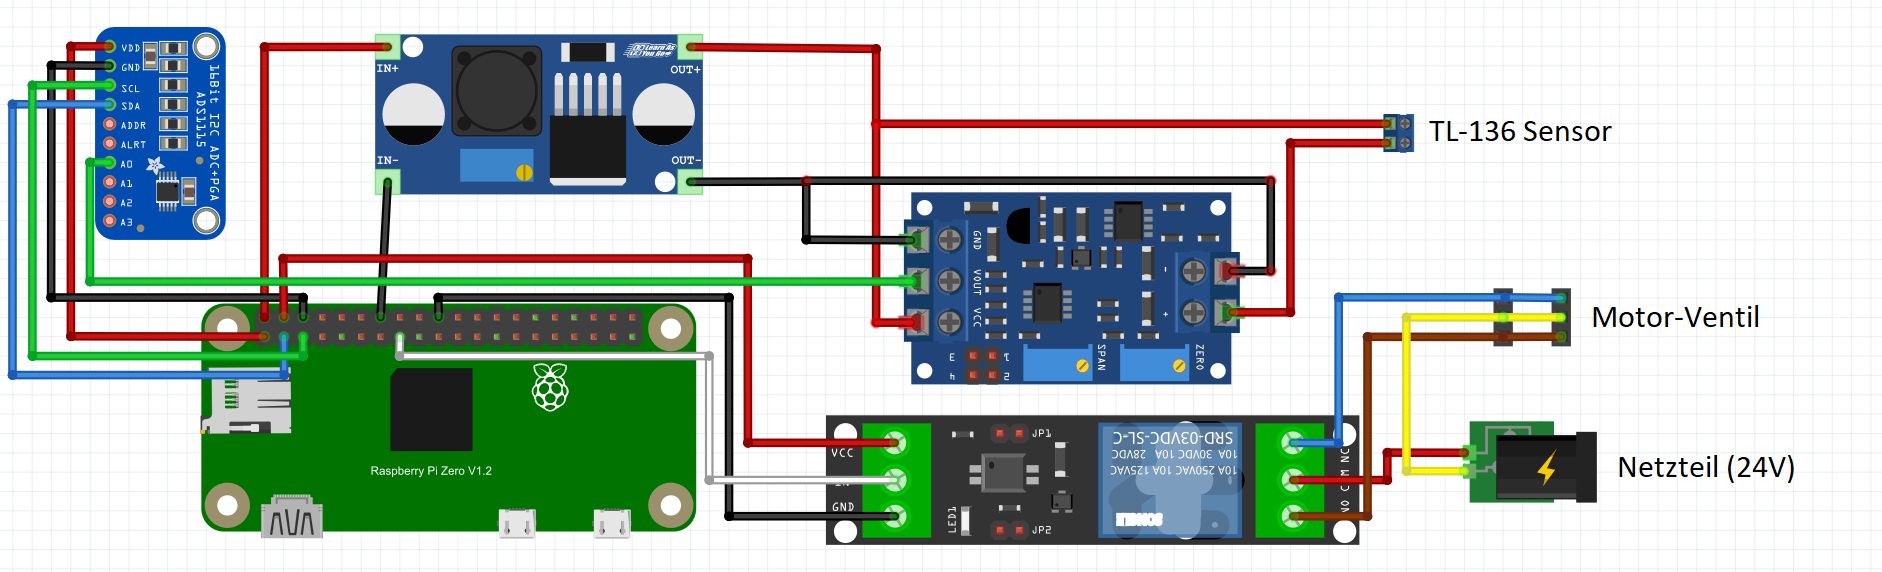
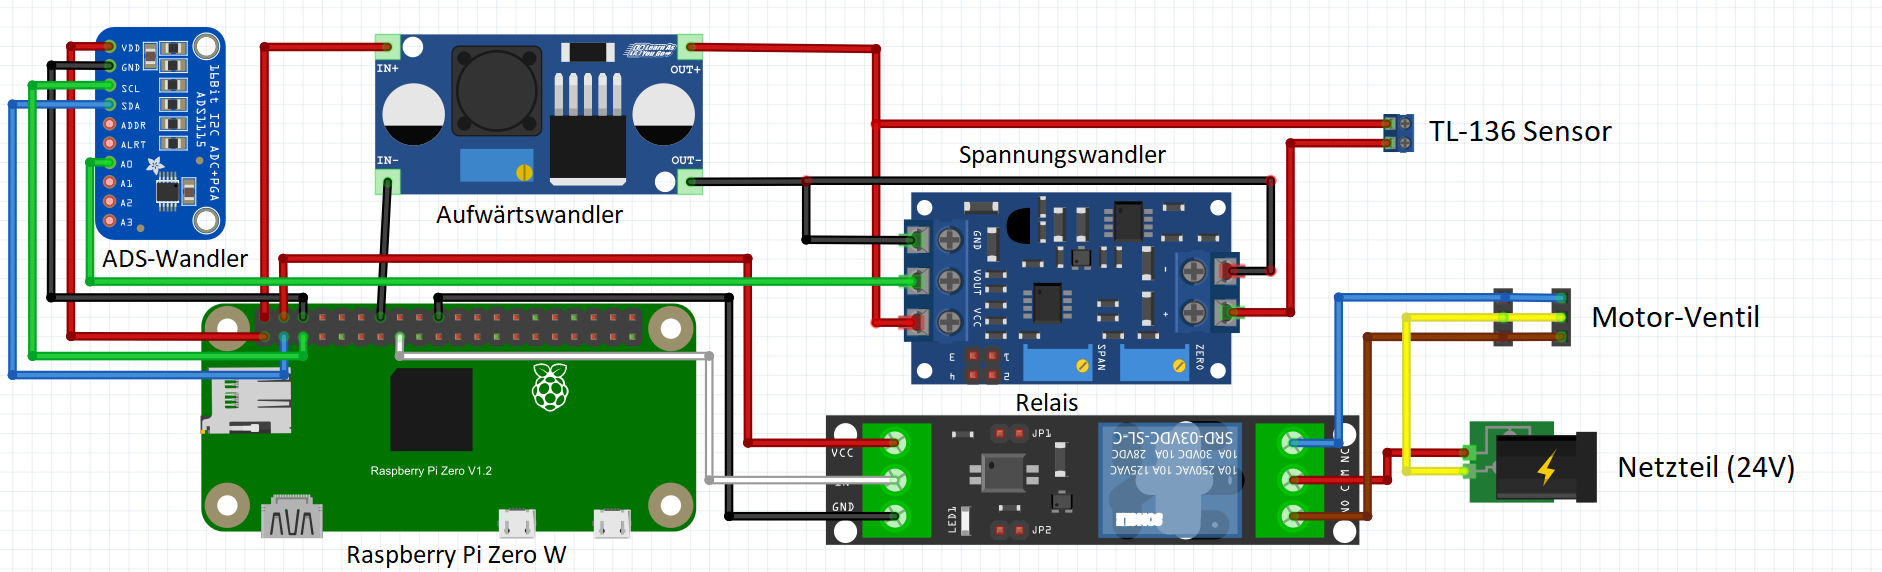
Dokumentation angepasst und Bilder hinzugefügt

diff --git a/README.md b/README.md
@@ -2,10 +2,8 @@
 
 Willkommen in der Dokumentation für das OOWV Smart Watertank Controller Repository. Hier erfährst du alles, was du über den Controller zur Steuerung des intelligenten Wassertanks wissen musst.
 
-
-
 ## Hardware
-### Controller
+#### Controller
 
 Folgende Hardware-Komponenten werden für den Controller benötigt:
 
@@ -16,7 +14,7 @@ https://www.amazon.de/dp/B06XFZC3BX
 https://www.amazon.de/dp/B08GY9NYRM
 
 - 1-Kanal Relais (3V): Für die Schaltung von Geräten.
-https://www.amazon.de/dp/B078Q326KT?th=1
+https://www.amazon.de/dp/B078Q326KT
 
 - 1 x Aufwärtswandler (3V-32V zu 5V-35V): Zur Spannungsanpassung.
 https://www.amazon.de/dp/B00HV59922
@@ -36,7 +34,7 @@ https://www.amazon.de/dp/B07TWLG37N
 
 - Verteilerdose zum verstauen der Hardware-Komponenten
 
-### Wassertank
+#### Wassertank
 
 - 1000L IBC Container
 https://www.rekubik.de/ibc-container/neue-ibc/1000l-ibc-container-rebottled-food-auf-stahlpalette-neuwertig?number=RK50122
@@ -46,59 +44,6 @@ https://www.rekubik.de/ibc-zubehoer/adapter/s60x6-grobgewinde/ibc-adapter-s60x6-
 
 - Motorkugelhahnventil
 https://www.amazon.de/dp/B07V2VX76C
-
-<pre>
-</pre>
-
-### Aufbau der Hardware
-
-Für die Konstruktion des Controllers werden neben den Komponenten noch weiteres Werkzeug und Bauteile benötigt:
-- Lötkolben und Lötzinn
-- Kabel und Lüsterklemmen
-- Aderendhülsen und Crimpzange
-- Multimeter
-
-#### Controller
-
-Zu Beginn empfiehlt es sich die Komponenten lose in der Dose anzuordnen und anschließend zB. mit einer Heißklebe Pistole zu befestigen.
-Alternativ können die Komponenten vorher auch auf einem Perfboard verlötet und dieses anschließend in der Dose befestigt werden.
-Einige Komponenten müssen vorher noch mit der jeweils mitgelieferten Stifleiste verlötet werden, damit Kabel an die jeweiligen Pins angeschlossen werden können.
-Anschließend können die Öffnungskappen der Dose für den Stecker des Netzteils sowie Kabel des Ventils und Wassersensors entfernt und die Kabel bzw. Stecker in den Öffnungen befestigt werden.
-
-Danach können die Kompononenten nach dem Schaltplan miteinander verkabelt werden.
-
-![Schaltplan 1 mit Stromzufuhr über USB](./docs/oowv-schaltplan-labeled.png)
-
-![Schaltplan 2 mit Stromzufuhr über Netzteil](./docs/schaltplan-3-labeled.png)
-
-![Die verkabelten Komponenten](./docs/wired.png)
-
-#### Stromversorgung
-Wie in Schaltplan 1 zu sehen wird der Raspbery Pi über ein Micro USB Kabel mit Strom versorgt. Dieses Kabel kann für die Entwicklung zwar an einen Laptop angeschlossen werden, sobald der Controller allerdings im Freien steht, sollte der Pi entweder über ein Batteriepack oder wie in Schaltplan 2 zu sehen über das 24V Netzteil mit Strom versorgt werden.
-Mittels des Aufwärtswandlers muss dann die 24V Spannung des Netzteils auf die benötigte 5V Micro USB Spannung heruntergeregelt werden. An die Plus und Minus Pins des Wandlers müssen dann noch die Ground (schwarz) und VCC(rot) Kabel des Micro USB Kabels angeschlossen werden.
-
-#### Aufwärtswandler
-Für Schaltplan 1 muss die 5V Spannung des Pis auf eine 24V Spannung für den Messsensor umgewandelt werden.
-Für Schaltplan 2 muss die 24V Ausgangsspannung des Netzteils auf eine 5V Spannung für den Micro USB Anschluss heruntergeregelt werden. 
-Dies geschieht durch Drehen des kleinen Rädchens auf dem Modul.
-
-#### Strom zu Spannungswandler
-Mittels des Spannungswandlers wird der Strom des Wassersensors in eine Spannung umgewandelt. Desweiteren kann über den Wandler ein Spannungsmaximum,für den gefüllten Tank und ein Spannungsminimum für einen leeren Tank eingestellt werden.
-Beim Spannungswandler geschieht dies ebenfalls über die Drehrädchen auf dem Modul. Während sich das Spannungsminimum sehr leicht simulieren lässt indem der Wassersensor nicht eingetaucht ist und somit über das ZERO Rädchen auf ein Spannungsminimum von 0V eingestellt werden kann, muss für das Spannungsmaximum der Wassersensor vollständig in Wasser eingetaucht werden. Dafür legt man den Wassersensor in ein Kunststoffrohr (HT-Rohr) und befüllt dieses auf 1 Meter mit Wasser. Anschließend kann über das SPAN Rädchen das Spannungsmaximum auf 3,3V eingestellt werden. 
-Zur Überprüfung der Spannungen empfiehlt sich hier die Verwendung eines Multimeters indem man den Spannungsabfall auf dem Spannungswandler zwischen GND und VOUT misst.
-
-![Die verkabelten Komponenten in der Verteilerdose](./docs/box-wired.png)
-
-![Der vollständige Controller mit Sensor und Ventil](./docs/closed-controller.png)
-
-
-#### Wassertank
-- Installation des Sensors
-
-- Installation des Ventils
-
-<pre>
-</pre>
 
 ## Installation
 
@@ -121,7 +66,7 @@ ssh <benutzername>@<raspberrypi-netzwerk-ip>
 ```
 
 #### Visual Studio Code und SSH FS
-Um mittels Visual Studio Code auf den Pi zuzugreifen empfiehlt sich die Erweiterung "FS SSH". Diese bietet eine grafische Benutzeroberfläche welche die Installation und Handhabung der Dateien auf dem Pi erleichtert. Die Erweiterung kann in VSCode über den Tab Erweiterungen installiert werden.
+Um mittels Visual Studio Code auf den Pi zuzugreifen, kann die Erweiterung "FS SSH" genutzt werden. Diese bietet eine grafische Benutzeroberfläche für Terminal,Code und Dateiverzeichnis, welche die Installation und Handhabung der Dateien auf dem Pi erleichtert. Die Erweiterung kann in VSCode über den Tab Erweiterungen installiert werden.
 
 Nach Abschluss der Installation kann die Erweiterung in der Toolbar am linken Bildschirmrand gefunden werden. Unter "Configurations" gilt es nun eine neue SSH FS Konfiguration zu erstellen.
 
@@ -134,10 +79,13 @@ Folgende Einstellungen sind hier zu setzen und abschließend zu speichern:
 - Benutzername & Passwort aus der Installation des Raspberry Pi
 ```
 
-Anschließend kann die Verbindung unter "Configurations" mit einem Klick auf "Open Remote SSH terminal" und das Verzeichnis mittels "Add as Workspace folder" geöffnet werden.
+![Der vollständige Controller mit Sensor und Ventil](./docs/sshfs-menu.png)
+Die SSH-FS Benutzeroberfläche.
+
+Anschließend kann die Verbindung unter "Configurations" (1) mit einem Klick auf den Pfeil mit dem Titel "Open Remote SSH terminal" (2) und das Verzeichnis mittels "Add as Workspace folder" (3) geöffnet werden.
 
 #### Ändern des Netzwerks
-Falls nach der Installation das Netzwerk geändert werden möchte, muss die SD Karte aus dem Pi entfernt und mit dem Computer verbunden werden. Im dortigen Verzeichnis muss anschließend eine Datei namens ***wpa_supplicant.conf*** und folgendem Inhalt hinterlegt werden:
+Falls sich nach der Installation das Netzwerk ändert, muss die SD Karte aus dem Pi entfernt und mit dem Computer verbunden werden. Im dortigen Verzeichnis muss anschließend eine Datei namens ***wpa_supplicant.conf*** mit folgendem Inhalt hinterlegt werden:
 
 ```
 ctrl_interface=DIR=/var/run/wpa_supplicant GROUP=netdev
@@ -152,7 +100,7 @@ Anschließend kann der Pi mit eingelegter SD-Karte neugestartet werden.
 
 #### Installation der notwendigen Bibliotheken
 
-Mit den folgenden Befehlen werden bereits auf den Gerät installierte möglicherweise veraltete Pakete aktualisiert.
+Mit den folgenden Befehlen werden die bereits auf dem Gerät installierten möglicherweise veralteten Pakete aktualisiert.
 ```
 sudo apt update
 sudo apt full-upgrade
@@ -164,9 +112,9 @@ Um das Quellcode Verzeichnis (GitHub Repository) auf dem Raspberry Pi zu install
 git clone https://github.com/OOWVxQF/Smartwatertank-Controller.git
 ```
 
-Um anschließend die die verwendeten Bibliotheken zu installieren muss zunächst in das zuvor angelegte Verzeichnis gewechselt und folgender Befehl ausgeführt werden.
+Um anschließend die vom Controller verwendeten Bibliotheken zu installieren, muss zunächst in das Quellcode Verzeichnis gewechselt und folgender Befehl ausgeführt werden.
 ```
-cd smartwatertank-controller
+cd Smartwatertank-Controller
 pip install -r requirements.txt
 ```
 
@@ -180,9 +128,67 @@ sudo systemctl status oowv-controller.service //Zeigt den Status des Service an
 sudo systemctl restart oowv-controller.service //Startet den Service neu
 sudo system ctl stop oowv-controller.service //Stoppt den Service
 ```
-Sämtliche Ausgaben des Programms werden in den Log-Dateien im Verzeichnis ***home/oowv-controller/logs*** gespeichert.
+Sämtliche Ausgaben des Programms werden in den Log-Dateien im Verzeichnis ***home/Smartwatertank-Controller/logs*** gespeichert.
 
 Anschließend kann der Controller mit der App verwendet werden.
+
+### Aufbau der Hardware
+
+Für die Konstruktion des Controllers werden neben den Komponenten noch weiteres Werkzeug und Bauteile benötigt:
+- Lötkolben und Lötzinn
+- Kabel und Lüsterklemmen
+- Aderendhülsen und Crimpzange
+- Multimeter
+
+#### Controller
+
+Zu Beginn empfiehlt es sich die Komponenten lose in der Dose anzuordnen und anschließend zB. mit einer Heißklebe Pistole zu befestigen.
+Alternativ können die Komponenten auch auf einem Perfboard verlötet und dieses anschließend in der Dose befestigt werden.
+Einige Komponenten müssen bevor Kabel an die Pins angeschlossen werden können noch mit der jeweils mitgelieferten Stifleiste verlötet werden.
+Anschließend können die Öffnungskappen der Dose für den Stecker des Netzteils sowie Kabel des Ventils und Wassersensors entfernt und die Kabel bzw. Stecker in den Öffnungen befestigt werden.
+
+Danach können die Kompononenten nach dem Schaltplan miteinander verkabelt werden.
+
+![Schaltplan 1 mit Stromzufuhr über USB](./docs/oowv-schaltplan-labeled.png)
+Schaltplan 1 mit USB Stromversorgung
+
+![Schaltplan 2 mit Stromzufuhr über Netzteil](./docs/schaltplan-3-labeled.png)
+Schaltplan 2 mit Stromversorgung über Netzteil
+
+![Die verkabelten Komponenten](./docs/wired.png)
+Die verkabelten Komponenten.
+
+![Die verkabelten Komponenten in der Verteilerdose](./docs/box-wired.png)
+Die verkabelten Komponenten in der Verteilerdose
+
+![Der vollständige Controller mit Sensor und Ventil](./docs/closed-controller.png)
+Der vollständige Controller mit Sensor und Ventil
+
+#### Stromversorgung
+Wie in Schaltplan 1 zu sehen, wird der Raspbery Pi über ein Micro USB Kabel mit Strom versorgt. Dieses Kabel kann für die Entwicklung zwar an einen Laptop angeschlossen werden, sobald der Controller allerdings im Freien steht, sollte der Pi entweder über ein Batteriepack oder wie in Schaltplan 2 zu sehen über das 24V Netzteil mit Strom versorgt werden.
+Mittels des Aufwärtswandlers muss dann die 24V Spannung des Netzteils auf die benötigte 5V Micro USB Spannung heruntergeregelt werden. An die Plus und Minus Pins des Wandlers müssen dann noch die Ground (schwarz) und VCC(rot) Kabel des Micro USB Kabels angeschlossen werden.
+
+#### Aufwärtswandler
+Für Schaltplan 1 muss die 5V Spannung des Pis auf eine 24V Spannung für den Messsensor umgewandelt werden.
+Für Schaltplan 2 muss die 24V Ausgangsspannung des Netzteils auf eine 5V Spannung für den Micro USB Anschluss heruntergeregelt werden. 
+Dies geschieht durch Drehen des kleinen Rädchens auf dem Modul.
+Zur Überprüfung des Spannungsverhältnisses, misst man mittels Multimeter den Spannungsabfall zwischen Eingangs- und Ausgangsspannung.
+
+#### Strom-zu-Spannungswandler
+Mittels des Spannungswandlers wird der Strom des Wassersensors in eine Spannung umgewandelt. Desweiteren kann über den Wandler ein Spannungsmaximum für den gefüllten Tank und ein Spannungsminimum für den leeren Tank eingestellt werden.
+Beim Spannungswandler geschieht dies ebenfalls über die Drehrädchen auf dem Modul. Während sich das Spannungsminimum sehr leicht simulieren lässt indem der Wassersensor nicht eingetaucht ist und somit über das ZERO Rädchen auf ein Spannungsminimum von 0V eingestellt werden kann, muss für das Spannungsmaximum der Wassersensor 1 Meter tief in Wasser eingetaucht werden. Dafür legt man den Wassersensor in ein Kunststoffrohr (HT-Rohr) und befüllt dieses auf 1 Meter mit Wasser. Anschließend kann über das SPAN Rädchen das Spannungsmaximum auf 3,3V eingestellt werden. 
+Zur Überprüfung der Spannungen empfiehlt sich hier die Verwendung eines Multimeters indem man den Spannungsabfall auf dem Spannungswandler zwischen GND und VOUT misst.
+
+
+#### Wassertank
+
+Nach dem Zusammenbau des Controllers kann dieser am eigentlichen Wassertank installiert werden. Dabei sollte darauf geachtet werden, dass der Controller sowie das Netzteil vor Regen geschützt und die Kabelverbindungen gut isoliert sind.
+
+![Das Motor-Ventil am Wassertank.](./docs/ventil-horizontal.png)
+Das Motor-Ventil am Wassertank.
+
+![Der Wassertank mit Motor-Ventil und Controller](./docs/tank-front.png)
+Der Wassertank mit Motor-Ventil und Controller
 
 ## Acknowledgements
 
